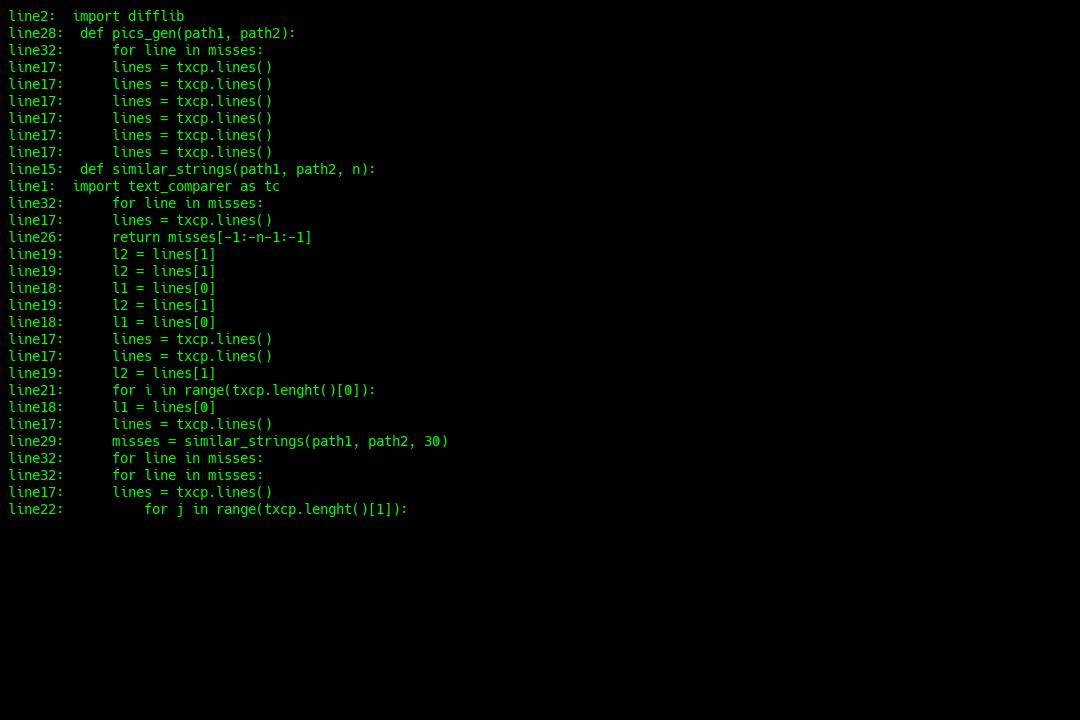
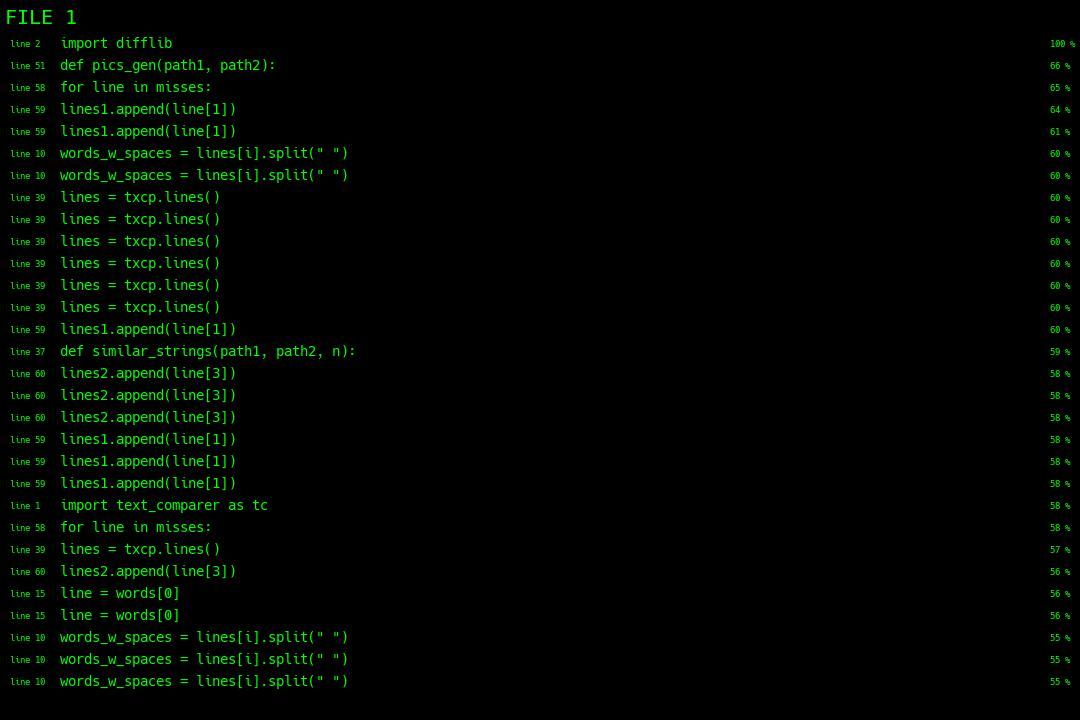
pics generation

Changed region(s): [[0.0, 0.0, 0.4278, 0.9778], [0.9778, 0.0611, 1.0, 0.9472]]

diff --git a/application.py b/application.py
@@ -3,13 +3,35 @@ import text_comparer as tc
 import difflib
 
 
-def text_to_image(text, n):
+def code_to_image(lines, line_number, percentage, n):
     img = Image.new('RGB', (1080, 720), 'black')
     img.save('pic/pic' + str(n) + '.jpg')
     img = Image.open('pic/pic' + str(n) + '.jpg')
-    font = ImageFont.truetype("fonts/Hack-Regular.ttf", size=14)
+    for i in range(len(lines)):
+        words_w_spaces = lines[i].split(" ")
+        words = []
+        for word in words_w_spaces:
+            if word != "":
+                words.append(word)
+        line = words[0]
+        for j in range(len(words)-1):
+            line = line + " " + words[j+1]
+
+        font = ImageFont.truetype("fonts/Hack-Regular.ttf", size=14)
+        idraw = ImageDraw.Draw(img)
+        idraw.text((60, 35+i*22), line, font=font, fill=(0, 255, 0))
+
+        font = ImageFont.truetype("fonts/Hack-Regular.ttf", size=9)
+        idraw = ImageDraw.Draw(img)
+        idraw.text((10, 38 + i * 22), "line " + str(line_number[i]), font=font, fill=(0, 255, 0))
+        font = ImageFont.truetype("fonts/Hack-Regular.ttf", size=9)
+        idraw = ImageDraw.Draw(img)
+        idraw.text((1050, 38 + i * 22), str(round(percentage[i]*100)) + " %", font=font, fill=(0, 255, 0))
+
+    font = ImageFont.truetype("fonts/Hack-Regular.ttf", size=20)
     idraw = ImageDraw.Draw(img)
-    idraw.text((8, 8), text, font=font, fill=(0, 255, 0))
+    idraw.text((5, 5), "FILE " + str(n), font=font, fill=(0, 255, 0))
+
     img.save('pic/pic' + str(n) + '.jpg')
 
 
@@ -29,13 +51,19 @@ def similar_strings(path1, path2, n):
 
 def pics_gen(path1, path2):
     misses = similar_strings(path1, path2, 30)
-    im1txt = ''
-    im2txt = ''
+    lines1 = []
+    lines2 = []
+    line_numbers1 = []
+    line_numbers2 = []
+    percentage = []
     for line in misses:
-        im1txt = im1txt + 'line' + str(line[0]) + ':  ' + line[1] + '\n'
-        im2txt = im2txt + 'line' + str(line[2]) + ':  ' + line[3] + '\n'
-    text_to_image(im1txt, 1)
-    text_to_image(im2txt, 2)
+        lines1.append(line[1])
+        lines2.append(line[3])
+        line_numbers1.append(line[0])
+        line_numbers2.append(line[2])
+        percentage.append(line[4])
+    code_to_image(lines1, line_numbers1, percentage, 1)
+    code_to_image(lines2, line_numbers2, percentage, 2)
 
 
 pics_gen('application.py', 'text_comparer.py')
